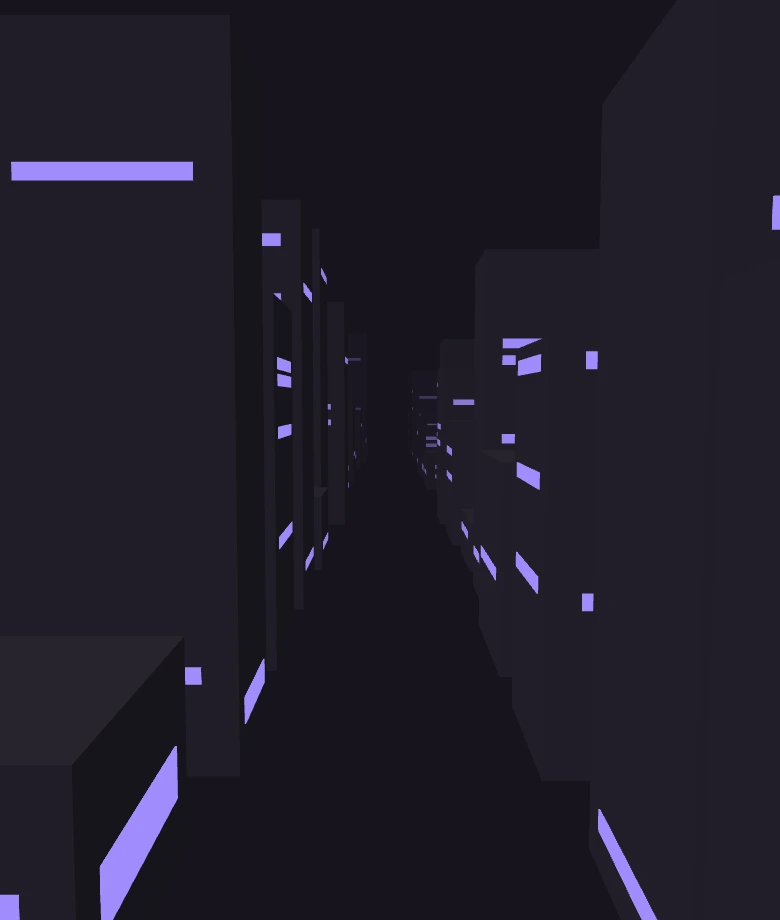
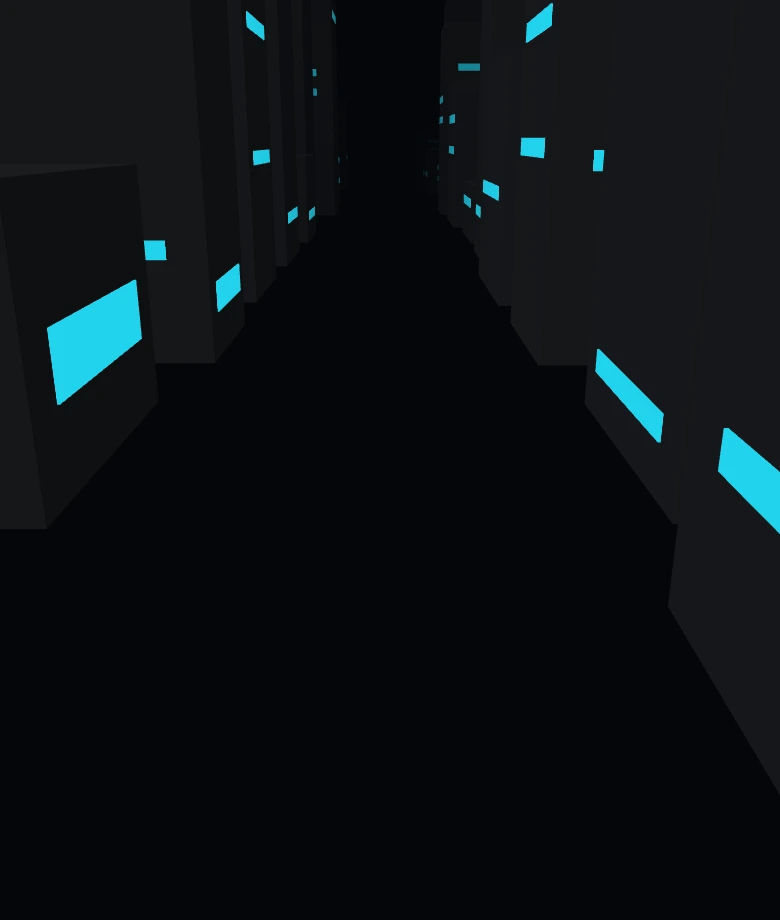
Slowed down 3js city background (#106)
* Add failing tests for the canyon camera drift

* Replace the city orbit with a slow drift down a street canyon

* Regenerate the city stills from the canyon framing and update the README

---------

diff --git a/frontend/__tests__/city-background.test.js b/frontend/__tests__/city-background.test.js
@@ -6,7 +6,7 @@ const city = require("../public/city-background.js");
 // ---- a fake of the parts of three.js the scene uses ------------------------------------
 
 function fakeThree() {
-  const made = { renderers: [], geometries: [], materials: [], meshes: [] };
+  const made = { renderers: [], geometries: [], materials: [], meshes: [], cameras: [] };
   class Vec { constructor() { this.x = 0; this.y = 0; this.z = 0; } set(x, y, z) { this.x = x; this.y = y; this.z = z; return this; } }
   class Color {
     constructor(v) { this.v = v; }
@@ -22,7 +22,7 @@ function fakeThree() {
   class Scene extends Object3D { constructor() { super(); this.fog = null; this.background = null; } }
   class Fog { constructor(color, near, far) { this.color = new Color(color); this.near = near; this.far = far; } }
   class PerspectiveCamera extends Object3D {
-    constructor(fov, aspect, near, far) { super(); this.fov = fov; this.aspect = aspect; this.near = near; this.far = far; }
+    constructor(fov, aspect, near, far) { super(); this.fov = fov; this.aspect = aspect; this.near = near; this.far = far; made.cameras.push(this); }
     updateProjectionMatrix() { this.projected = (this.projected || 0) + 1; }
   }
   class BoxGeometry { constructor() { this.dispose = jest.fn(); made.geometries.push(this); } }
@@ -497,6 +497,116 @@ describe("the scene", () => {
     const { THREE, made } = fakeThree();
     city.createScene(THREE, { canvas: document.createElement("canvas"), width: 800, height: 400, dpr: 1, colors: city.deriveColors({ bg: "#17141F", ink: "#ECE8F5", accent: "#A08CFF" }) });
     expect(made.meshes[1].material).toBeInstanceOf(THREE.MeshBasicMaterial);
+  });
+});
+
+// ---- the camera: a slow drift down a street canyon -----------------------------------------
+
+describe("the camera", () => {
+  const colors = () => city.deriveColors({ bg: "#17141F", ink: "#ECE8F5", accent: "#A08CFF" });
+  const make = () => {
+    const { THREE, made } = fakeThree();
+    const sc = city.createScene(THREE, { canvas: document.createElement("canvas"), width: 1280, height: 460, dpr: 1, colors: colors() });
+    return { sc, made };
+  };
+  const C = city.CAMERA;
+
+  test("the named constants match the approved framing", () => {
+    expect(C.FOV).toBe(55);
+    expect(C.TILT_DEGREES).toBeGreaterThanOrEqual(20);
+    expect(C.TILT_DEGREES).toBeLessThanOrEqual(25);
+    expect(C.HEIGHT / C.TOWER_HEIGHT).toBeGreaterThanOrEqual(0.2);
+    expect(C.HEIGHT / C.TOWER_HEIGHT).toBeLessThanOrEqual(0.25);
+    expect(C.BLOCK_SECONDS).toBeGreaterThanOrEqual(12);
+    expect(C.BLOCK_SECONDS).toBeLessThanOrEqual(15);
+    expect(C.SPEED * C.BLOCK_SECONDS).toBeCloseTo(city.SPACING);
+  });
+
+  test("uses a 55 degree field of view", () => {
+    expect(make().sc.camera.fov).toBe(55);
+  });
+
+  test("starts inside the canyon, low, on the street axis", () => {
+    const { sc } = make();
+    expect(sc.camera.position.y).toBeLessThan(C.TOWER_HEIGHT * 0.3);
+    expect(Math.abs(sc.camera.position.x)).toBeLessThanOrEqual(C.DRIFT_X);
+  });
+
+  test("moves forward along -z at exactly the configured rate", () => {
+    const { sc } = make();
+    const z0 = sc.camera.position.z;
+    for (let i = 0; i < 300; i++) sc.step(C.SPEED / 30); // ten seconds at 30 frames a second
+    expect(z0 - sc.camera.position.z).toBeCloseTo(C.SPEED * 10, 6);
+  });
+
+  test("one block passes in the configured number of seconds", () => {
+    const { sc } = make();
+    const z0 = sc.camera.position.z;
+    sc.step(C.SPEED * C.BLOCK_SECONDS);
+    expect(z0 - sc.camera.position.z).toBeCloseTo(city.SPACING, 6);
+  });
+
+  test("height stays within the configured drift range and the sideways drift within its range", () => {
+    const { sc } = make();
+    let minY = Infinity, maxY = -Infinity, maxX = 0;
+    for (let i = 0; i < 20000; i++) {
+      sc.step(C.SPEED * 0.5);
+      minY = Math.min(minY, sc.camera.position.y);
+      maxY = Math.max(maxY, sc.camera.position.y);
+      maxX = Math.max(maxX, Math.abs(sc.camera.position.x));
+    }
+    expect(minY).toBeGreaterThanOrEqual(C.HEIGHT - C.DRIFT_Y - 1e-9);
+    expect(maxY).toBeLessThanOrEqual(C.HEIGHT + C.DRIFT_Y + 1e-9);
+    expect(maxY - minY).toBeGreaterThan(C.DRIFT_Y); // it really does drift
+    expect(maxX).toBeLessThanOrEqual(C.DRIFT_X + 1e-9);
+    expect(maxX).toBeGreaterThan(C.DRIFT_X / 2);
+  });
+
+  test("tilts down by the configured angle, with no sideways turn, and keeps it while moving", () => {
+    const { sc } = make();
+    const expected = -(C.TILT_DEGREES * Math.PI) / 180;
+    expect(sc.camera.rotation.x).toBeCloseTo(expected, 9);
+    expect(sc.camera.rotation.y).toBe(0);
+    sc.step(500);
+    expect(sc.camera.rotation.x).toBeCloseTo(expected, 9);
+    expect(sc.camera.rotation.y).toBe(0);
+  });
+
+  test("the running animation moves the camera at the configured rate in real time", async () => {
+    const s = setup();
+    await s.start();
+    const cam = s.three.made.cameras[0];
+    const z0 = cam.position.z;
+    s.env.run(0, 10000, 1000 / 60);
+    expect(z0 - cam.position.z).toBeCloseTo(C.SPEED * 10, 0);
+  });
+
+  test("blocks recycle behind the camera and the count stays bounded over a long run", () => {
+    const { sc, made } = make();
+    const rows = sc.grid.rows.length;
+    const instances = made.meshes.map((m) => m.count);
+    const hours = 2;
+    const frames = hours * 3600 * 30;
+    for (let i = 0; i < frames; i++) {
+      sc.step(C.SPEED / 30);
+      if (i % 5000 === 0) {
+        expect(sc.grid.rows.length).toBe(rows);
+        // the nearest row is at or just behind the camera; every other row is ahead of it
+        const nearest = made.meshes[0].position.z;
+        expect(nearest).toBeGreaterThanOrEqual(sc.camera.position.z);
+        expect(nearest - sc.camera.position.z).toBeLessThan(city.SPACING);
+      }
+    }
+    expect(sc.grid.rows.length).toBe(rows);
+    expect(made.meshes.map((m) => m.count)).toEqual(instances);
+    expect(sc.grid.recycled).toBe(Math.floor((C.SPEED * hours * 3600) / city.SPACING + 1e-6));
+    expect(sc.grid.recycled).toBeGreaterThan(500);
+  });
+
+  test("fog ends well before the far end of the street", () => {
+    const { sc } = make();
+    expect(sc.scene.fog.far).toBeLessThan(sc.camera.far);
+    expect(sc.scene.fog.far).toBeLessThan(city.SPACING * sc.grid.rows.length);
   });
 });
 

diff --git a/frontend/public/city-background.js b/frontend/public/city-background.js
@@ -15,12 +15,27 @@
   var LOW_FPS = 15; // swap to the still only when the frame rate stays below this...
   var LOW_FPS_SECONDS = 10; // ...for this many seconds in a row (software WebGL runs in the teens)
   var STILL_THEME = "dark"; // the site has one palette, so the still is always the dark one
-  var SPEED = 6; // world units per second, the slow forward drift
   var DEFAULT_HEIGHT = 460; // matches .city-bg in style.css, used when the box has no size yet
 
   var COLS = 14;
-  var ROWS = 26;
-  var SPACING = 10;
+  var ROWS = 18;
+  var SPACING = 10; // one building block, front to back
+
+  // The camera drifts down the avenue between the towers, low and looking slightly down.
+  var TOWER_HEIGHT = 24; // the tallest a building can be (see createGrid)
+  var CAMERA = {
+    TOWER_HEIGHT: TOWER_HEIGHT,
+    HEIGHT: TOWER_HEIGHT * 0.23, // 20 to 25 percent of the tallest towers, below most rooftops
+    TILT_DEGREES: 20, // downward, from horizontal
+    FOV: 55,
+    BLOCK_SECONDS: 13.5, // one block passes every 12 to 15 seconds: barely moving
+    SPEED: SPACING / 13.5, // world units per second, forward along -z
+    DRIFT_X: 1.2, // sideways drift, units either side of the avenue's middle
+    DRIFT_Y: 0.6, // vertical drift, units either side of HEIGHT
+    DRIFT_X_SECONDS: 95, // each drift runs on its own long cycle
+    DRIFT_Y_SECONDS: 70,
+  };
+  var FOG_FAR = SPACING * (ROWS - 5); // the far end of the street fades out before the last rows
   var MAX_WINDOWS = 6;
   var SEED = 2027;
 
@@ -94,7 +109,7 @@
       var row = [];
       for (var c = 0; c < cols; c++) {
         var side = c < half ? -1 : 1;
-        var h = 3 + Math.pow(random(), 1.6) * 21;
+        var h = 3 + Math.pow(random(), 1.6) * (TOWER_HEIGHT - 3);
         var building = {
           x: (c - half) * spacing + side * spacing * 0.3, // the extra widens the avenue
           w: spacing * (0.45 + random() * 0.35),
@@ -111,7 +126,7 @@
       return row;
     }
 
-    var grid = { rows: [], offset: 0, spacing: spacing, cols: cols };
+    var grid = { rows: [], offset: 0, recycled: 0, spacing: spacing, cols: cols };
     for (var r = 0; r < opts.rows; r++) grid.rows.push(makeRow());
     grid.rowZ = function (i) { return grid.offset - i * spacing; };
     grid.advance = function (distance) {
@@ -122,6 +137,7 @@
         grid.rows.shift();
         grid.rows.push(makeRow());
         recycled += 1;
+        grid.recycled += 1;
       }
       return recycled;
     };
@@ -141,12 +157,11 @@
     renderer.setPixelRatio(Math.min(opts.dpr || 1, MAX_DPR));
 
     var scene = new THREE.Scene();
-    scene.fog = new THREE.Fog(opts.colors.fog, SPACING * 2, SPACING * (ROWS - 4));
+    scene.fog = new THREE.Fog(opts.colors.fog, SPACING * 2, FOG_FAR);
     renderer.setClearColor(opts.colors.fog);
 
-    var camera = new THREE.PerspectiveCamera(58, opts.width / opts.height, 0.1, SPACING * (ROWS + 2));
-    camera.position.set(0, 11, 0); // above the low buildings, looking down the avenue
-    camera.lookAt(0, 6, -70);
+    var camera = new THREE.PerspectiveCamera(CAMERA.FOV, opts.width / opts.height, 0.1, SPACING * (ROWS + 2));
+    camera.rotation.set(-CAMERA.TILT_DEGREES * Math.PI / 180, 0, 0); // down the street axis (-z), tilted down
 
     var sun = new THREE.DirectionalLight("#ffffff", 1.6);
     sun.position.set(-0.6, 1, 0.5);
@@ -198,16 +213,26 @@
     }
     writeInstances();
 
+    var travel = 0; // total distance the camera has moved forward
     var api = {
       scene: scene,
       camera: camera,
       renderer: renderer,
       grid: grid,
-      // Moves the city toward the camera by `distance` world units.
+      // Moves the camera forward by `distance` world units. Rows that fall behind it are recycled
+      // at the far end, and the meshes shift by whole blocks so the instance count never changes.
       step: function (distance) {
+        travel += distance;
         if (grid.advance(distance) > 0) writeInstances();
-        buildings.position.z = grid.offset;
-        windows.position.z = grid.offset;
+        var meshZ = -grid.recycled * SPACING;
+        buildings.position.z = meshZ;
+        windows.position.z = meshZ;
+        var seconds = travel / CAMERA.SPEED;
+        camera.position.set(
+          CAMERA.DRIFT_X * Math.sin((seconds / CAMERA.DRIFT_X_SECONDS) * 2 * Math.PI),
+          CAMERA.HEIGHT + CAMERA.DRIFT_Y * Math.sin((seconds / CAMERA.DRIFT_Y_SECONDS) * 2 * Math.PI),
+          -travel
+        );
       },
       render: function () { renderer.render(scene, camera); },
       resize: function (width, height) {
@@ -369,7 +394,7 @@
       if (lastRender === null || t - lastRender >= FRAME_MS - 1) {
         var dt = lastTick === null ? 0 : Math.min((t - lastTick) / 1000, 0.1);
         try {
-          scene.step(dt * SPEED);
+          scene.step(dt * CAMERA.SPEED);
           scene.render();
         } catch (e) {
           logFailure("render a frame", e);
@@ -503,6 +528,8 @@
     parseColor: parseColor,
     readTokens: readTokens,
     MAX_WINDOWS: MAX_WINDOWS,
+    SPACING: SPACING,
+    CAMERA: CAMERA,
     LOW_FPS: LOW_FPS,
     LOW_FPS_SECONDS: LOW_FPS_SECONDS,
   };

diff --git a/README.md b/README.md
@@ -137,7 +137,7 @@ Playwright runs with `reducedMotion: "reduce"`, so pages show the city's still i
 
 ## City background
 
-The night-city background (Phase 8) is `frontend/public/city-background.js`, drawn with three.js. Orbit speed, tilt, height, drift and the low-frame-rate check (`LOW_FPS`, `LOW_FPS_SECONDS`) are named constants at the top of that file. Colors come from the CSS tokens in `frontend/style.css`.
+The night-city background (Phase 8) is `frontend/public/city-background.js`, drawn with three.js. The camera drifts forward down a street canyon, low and tilted slightly down; its height, tilt, field of view, speed and drift (the `CAMERA` object) and the low-frame-rate check (`LOW_FPS`, `LOW_FPS_SECONDS`) are named constants at the top of that file. Colors come from the CSS tokens in `frontend/style.css`.
 
 It lives under `frontend/public/` because the public hostname only serves `/public/*`; the dashboard loads the same files. Phones (viewport under 768px with a coarse pointer), reduced motion, no WebGL and machines that stay under 15 frames a second for 10 seconds get `city-still-dark.webp` (with a JPEG fallback) instead, and never download three.js. The still is always the dark one.
 
